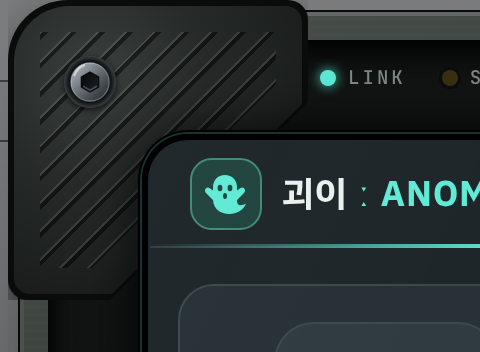
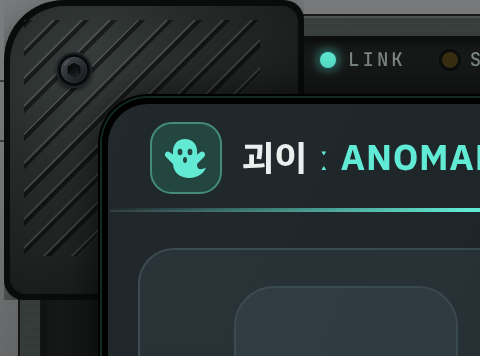
외부 프레임: 전술 치수를 확정 시안으로 (베젤 44·범퍼 +8·나사 18px·손잡이 홈 12/170·LED 13·유리 홈 40) + 사진 갱신
Claude-Session: https://claude.ai/code/session_01Jodrze8Jhrnp8pauH4bqbV

diff --git a/src/ui/style.css b/src/ui/style.css
@@ -88,7 +88,7 @@ button:focus-visible, a:focus-visible, input:focus-visible, textarea:focus-visib
    폰(760px 이하)·필드 전체화면·좁은 창에서는 app.ts 가 .gx-frame 자체를 안 넣는다 (data-frame="none") */
 .gx[data-frame="tablet"] { padding: 4px; }
 /* 전술은 모서리 범퍼 바닥이 본체 밖 6px 까지 나가므로 그만큼 여백을 더 둔다 (1000px 높이에서 범퍼가 잘리지 않게; ui/frame.ts PAD 와 같은 값) */
-.gx[data-frame="tactical"] { padding: 6px; }
+.gx[data-frame="tactical"] { padding: 8px; }
 .gx-frame { position: relative; flex: none; display: flex; align-items: center; justify-content: center; box-sizing: border-box; padding: var(--bz); width: min(100%, calc(1280px + 2 * var(--bz))); height: min(100%, calc(950px + 2 * var(--bz))); }
 .gx-frame.pre { width: min(100%, calc(1024px + 2 * var(--bz))); }
 /* 창의 1px 테두리는 틀 안에서는 지운다 (시안은 테두리 없이 검은 3px 띠뿐 — 남겨 두면 띠와 창 사이에 회색 선이 생긴다). 투명으로 두면 바탕이 테두리 자리까지 칠해지고 폭(border-box)은 그대로 */
@@ -112,42 +112,42 @@ button:focus-visible, a:focus-visible, input:focus-visible, textarea:focus-visib
 .gxf-spk { left: 300px; bottom: 2px; width: 110px; height: 3px; background: repeating-linear-gradient(90deg, rgba(0,0,0,.9) 0 3px, transparent 3px 7px); opacity: .7; }
 .gxf-spk.r { left: auto; right: 300px; }
 /* 전술 태블릿: 빛은 왼쪽 위. 본체 → 결 → 안쪽 단차(움푹) → 모서리 고무 범퍼 4벌(바닥·몸·성형 홈) → 볼트 4개 → 좌우 손잡이 홈 → 상태 LED·가운데 손잡이 홈 → 파인 유리(민트 선) → 창 → 반사 → 스트랩 고리 */
-.gx-frame[data-kind="tactical"] { --bz: 64px; border-radius: 26px; background: linear-gradient(155deg, #4a514d 0%, #323834 22%, #22262a 55%, #1a1e1d 80%, #2a2f2c 100%); box-shadow: 0 90px 140px -50px rgba(0,0,0,.95), 0 30px 40px -24px rgba(0,0,0,.9), 0 0 0 1px #0a0c0b, inset 0 2px 0 rgba(255,255,255,.16), inset 2px 0 0 rgba(255,255,255,.06), inset 0 -3px 0 rgba(0,0,0,.75), inset -2px 0 0 rgba(0,0,0,.5); }
+.gx-frame[data-kind="tactical"] { --bz: 44px; border-radius: 26px; background: linear-gradient(160deg, #3b413e 0%, #262b29 35%, #1b1f1e 70%, #272c2a 100%); box-shadow: 0 70px 120px -40px rgba(0,0,0,.9), 0 0 0 1px rgba(0,0,0,.8), inset 0 1px 0 rgba(255,255,255,.1), inset 0 -2px 0 rgba(0,0,0,.6); }
 .gx-frame[data-kind="tactical"] > .gx-panel { box-shadow: 0 0 0 3px #000; }
 .gx-frame[data-kind="tactical"] > .gxf-glare { background: linear-gradient(115deg, rgba(255,255,255,.035) 0%, rgba(255,255,255,0) 26%); }
 .gxf-tex { inset: 0; border-radius: 26px; background: repeating-linear-gradient(0deg, rgba(255,255,255,.012) 0 1px, transparent 1px 4px); }
-.gxf-recess { inset: 14px; border-radius: 18px; background: linear-gradient(180deg, #121514 0%, #0c0f0e 100%); box-shadow: inset 0 8px 14px rgba(0,0,0,.9), inset 0 -2px 0 rgba(255,255,255,.05), inset 3px 0 6px rgba(0,0,0,.6), 0 1px 0 rgba(255,255,255,.06); }
+.gxf-recess { inset: 10px; border-radius: 18px; background: linear-gradient(180deg, #171a19 0%, #0f1211 100%); box-shadow: inset 0 2px 6px rgba(0,0,0,.8), inset 0 0 0 1px rgba(255,255,255,.04); }
 /* 범퍼: 바닥(어두운 테두리, -6px) → 몸(둥근 음영, -3px) → 성형 홈(능선+골 짝, 10px) */
 .gxf-bump.base { width: 150px; height: 150px; background: #0a0c0b; filter: drop-shadow(0 10px 10px rgba(0,0,0,.6)); }
 .gxf-bump.body { width: 144px; height: 144px; }
 .gxf-bump.ridge { width: 118px; height: 118px; }
-.gxf-bump.tl.base { left: -6px; top: -6px; border-radius: 30px 10px 10px 10px; clip-path: polygon(0 0, 100% 0, 100% 34%, 34% 100%, 0 100%); }
-.gxf-bump.tl.body { left: -3px; top: -3px; border-radius: 28px 8px 8px 8px; background: radial-gradient(90% 90% at 28% 24%, #3a403d 0%, #262b29 42%, #161918 100%); clip-path: polygon(0 0, 100% 0, 100% 34%, 34% 100%, 0 100%); }
-.gxf-bump.tl.ridge { left: 10px; top: 10px; background: repeating-linear-gradient(135deg, rgba(255,255,255,.11) 0 1px, rgba(0,0,0,.5) 1px 3px, transparent 3px 10px); clip-path: polygon(0 0, 100% 0, 100% 22%, 22% 100%, 0 100%); }
-.gxf-bump.tr.base { right: -6px; top: -6px; border-radius: 10px 30px 10px 10px; clip-path: polygon(0 0, 100% 0, 100% 100%, 66% 100%, 0 34%); }
-.gxf-bump.tr.body { right: -3px; top: -3px; border-radius: 8px 28px 8px 8px; background: radial-gradient(90% 90% at 60% 24%, #343937 0%, #222625 42%, #141716 100%); clip-path: polygon(0 0, 100% 0, 100% 100%, 66% 100%, 0 34%); }
-.gxf-bump.tr.ridge { right: 10px; top: 10px; background: repeating-linear-gradient(45deg, rgba(255,255,255,.1) 0 1px, rgba(0,0,0,.5) 1px 3px, transparent 3px 10px); clip-path: polygon(0 0, 100% 0, 100% 100%, 78% 100%, 0 22%); }
-.gxf-bump.bl.base { left: -6px; bottom: -6px; border-radius: 10px 10px 10px 30px; clip-path: polygon(0 0, 34% 0, 100% 66%, 100% 100%, 0 100%); }
-.gxf-bump.bl.body { left: -3px; bottom: -3px; border-radius: 8px 8px 8px 28px; background: radial-gradient(90% 90% at 28% 60%, #2e3331 0%, #1f2322 42%, #121514 100%); clip-path: polygon(0 0, 34% 0, 100% 66%, 100% 100%, 0 100%); }
-.gxf-bump.bl.ridge { left: 10px; bottom: 10px; background: repeating-linear-gradient(45deg, rgba(255,255,255,.09) 0 1px, rgba(0,0,0,.5) 1px 3px, transparent 3px 10px); clip-path: polygon(0 0, 22% 0, 100% 78%, 100% 100%, 0 100%); }
-.gxf-bump.br.base { right: -6px; bottom: -6px; border-radius: 10px 10px 30px 10px; clip-path: polygon(66% 0, 100% 0, 100% 100%, 0 100%, 0 66%); }
-.gxf-bump.br.body { right: -3px; bottom: -3px; border-radius: 8px 8px 28px 8px; background: radial-gradient(90% 90% at 60% 60%, #2a2f2d 0%, #1c201f 42%, #101312 100%); clip-path: polygon(66% 0, 100% 0, 100% 100%, 0 100%, 0 66%); }
-.gxf-bump.br.ridge { right: 10px; bottom: 10px; background: repeating-linear-gradient(135deg, rgba(255,255,255,.08) 0 1px, rgba(0,0,0,.5) 1px 3px, transparent 3px 10px); clip-path: polygon(78% 0, 100% 0, 100% 100%, 0 100%, 0 78%); }
-.gx-frame > .gxf-screw { filter: drop-shadow(0 1.5px 1.5px rgba(0,0,0,.7)); }
+.gxf-bump.tl.base { left: -8px; top: -8px; border-radius: 30px 10px 10px 10px; clip-path: polygon(0 0, 100% 0, 100% 34%, 34% 100%, 0 100%); }
+.gxf-bump.tl.body { left: -5px; top: -5px; border-radius: 28px 8px 8px 8px; background: radial-gradient(90% 90% at 28% 24%, #3a403d 0%, #262b29 42%, #161918 100%); clip-path: polygon(0 0, 100% 0, 100% 34%, 34% 100%, 0 100%); }
+.gxf-bump.tl.ridge { left: 2px; top: 2px; background: repeating-linear-gradient(135deg, rgba(255,255,255,.11) 0 1px, rgba(0,0,0,.5) 1px 3px, transparent 3px 10px); clip-path: polygon(0 0, 100% 0, 100% 22%, 22% 100%, 0 100%); }
+.gxf-bump.tr.base { right: -8px; top: -8px; border-radius: 10px 30px 10px 10px; clip-path: polygon(0 0, 100% 0, 100% 100%, 66% 100%, 0 34%); }
+.gxf-bump.tr.body { right: -5px; top: -5px; border-radius: 8px 28px 8px 8px; background: radial-gradient(90% 90% at 60% 24%, #343937 0%, #222625 42%, #141716 100%); clip-path: polygon(0 0, 100% 0, 100% 100%, 66% 100%, 0 34%); }
+.gxf-bump.tr.ridge { right: 2px; top: 2px; background: repeating-linear-gradient(45deg, rgba(255,255,255,.1) 0 1px, rgba(0,0,0,.5) 1px 3px, transparent 3px 10px); clip-path: polygon(0 0, 100% 0, 100% 100%, 78% 100%, 0 22%); }
+.gxf-bump.bl.base { left: -8px; bottom: -8px; border-radius: 10px 10px 10px 30px; clip-path: polygon(0 0, 34% 0, 100% 66%, 100% 100%, 0 100%); }
+.gxf-bump.bl.body { left: -5px; bottom: -5px; border-radius: 8px 8px 8px 28px; background: radial-gradient(90% 90% at 28% 60%, #2e3331 0%, #1f2322 42%, #121514 100%); clip-path: polygon(0 0, 34% 0, 100% 66%, 100% 100%, 0 100%); }
+.gxf-bump.bl.ridge { left: 2px; bottom: 2px; background: repeating-linear-gradient(45deg, rgba(255,255,255,.09) 0 1px, rgba(0,0,0,.5) 1px 3px, transparent 3px 10px); clip-path: polygon(0 0, 22% 0, 100% 78%, 100% 100%, 0 100%); }
+.gxf-bump.br.base { right: -8px; bottom: -8px; border-radius: 10px 10px 30px 10px; clip-path: polygon(66% 0, 100% 0, 100% 100%, 0 100%, 0 66%); }
+.gxf-bump.br.body { right: -5px; bottom: -5px; border-radius: 8px 8px 28px 8px; background: radial-gradient(90% 90% at 60% 60%, #2a2f2d 0%, #1c201f 42%, #101312 100%); clip-path: polygon(66% 0, 100% 0, 100% 100%, 0 100%, 0 66%); }
+.gxf-bump.br.ridge { right: 2px; bottom: 2px; background: repeating-linear-gradient(135deg, rgba(255,255,255,.08) 0 1px, rgba(0,0,0,.5) 1px 3px, transparent 3px 10px); clip-path: polygon(78% 0, 100% 0, 100% 100%, 0 100%, 0 78%); }
+.gx-frame > .gxf-screw { filter: drop-shadow(0 1px 1px rgba(0,0,0,.6)); }
 /* 좌우 손잡이: 가로 홈, 능선이 빛을 받음 */
-.gxf-grip { left: 22px; top: 190px; bottom: 190px; width: 22px; border-radius: 8px; background: repeating-linear-gradient(0deg, #0a0c0b 0 5px, #2a2f2d 5px 8px, #1b1f1e 8px 14px); box-shadow: inset 0 0 0 1px rgba(0,0,0,.9), inset 1px 1px 0 rgba(255,255,255,.1), 3px 0 6px rgba(0,0,0,.55); }
-.gxf-grip.r { left: auto; right: 22px; box-shadow: inset 0 0 0 1px rgba(0,0,0,.9), inset 1px 1px 0 rgba(255,255,255,.1), -3px 0 6px rgba(0,0,0,.55); }
+.gxf-grip { left: 12px; top: 170px; bottom: 170px; width: 20px; border-radius: 8px; background: repeating-linear-gradient(0deg, #0c0e0d 0 6px, #232726 6px 14px); box-shadow: inset 0 0 0 1px rgba(0,0,0,.8), inset 2px 0 0 rgba(255,255,255,.04); }
+.gxf-grip.r { left: auto; right: 12px; box-shadow: inset 0 0 0 1px rgba(0,0,0,.8), inset -2px 0 0 rgba(255,255,255,.04); }
 /* 위 베젤: 상태 LED (장식: LINK 켜짐·STBY 꺼짐·REC 켜짐) · 가운데 손잡이 홈. 글자는 LINK·STBY·REC 뿐 */
-.gxf-leds { left: 150px; top: 22px; height: 22px; display: flex; align-items: center; gap: 18px; font-family: 'JetBrains Mono', ui-monospace, monospace; font-size: 9.5px; font-style: normal; letter-spacing: .16em; color: #7f8a85; }
+.gxf-leds { left: 150px; top: 13px; height: 18px; display: flex; align-items: center; gap: 18px; font-family: 'JetBrains Mono', ui-monospace, monospace; font-size: 9.5px; font-style: normal; letter-spacing: .16em; color: #7f8a85; }
 .gxf-leds > span { display: inline-flex; align-items: center; gap: 6px; }
 .gxf-leds b { display: inline-block; width: 8px; height: 8px; border-radius: 50%; background: #3a2f12; box-shadow: 0 0 0 1.5px #0b0d0e; }
 .gxf-leds b.on-link { background: #5EEAD4; box-shadow: 0 0 6px #5EEAD4, 0 0 0 1.5px #0b0d0e; }
 .gxf-leds b.on-rec { background: #FF7A6B; box-shadow: 0 0 6px #FF7A6B, 0 0 0 1.5px #0b0d0e; }
-.gxf-handle { left: 50%; top: 18px; transform: translateX(-50%); width: 220px; height: 30px; border-radius: 15px; background: linear-gradient(180deg, #070908, #141716); box-shadow: inset 0 3px 6px rgba(0,0,0,.95), inset 0 -1px 0 rgba(255,255,255,.07), 0 1px 0 rgba(255,255,255,.05); }
+.gxf-handle { left: 50%; top: 8px; transform: translateX(-50%); width: 220px; height: 28px; border-radius: 14px; background: linear-gradient(180deg, #0b0d0c, #151817); box-shadow: inset 0 2px 4px rgba(0,0,0,.9), inset 0 -1px 0 rgba(255,255,255,.05); }
 /* 파인 유리 + 민트 가는 선 (창보다 4px 넓게) */
-.gxf-pit { inset: calc(var(--bz) - 4px); border-radius: 24px; background: #000; box-shadow: inset 0 0 0 1px rgba(94,234,212,.22), inset 0 6px 10px rgba(0,0,0,.9), 0 0 0 1px #000, 0 1px 0 rgba(255,255,255,.06), 0 0 28px rgba(0,0,0,.85); }
+.gxf-pit { inset: calc(var(--bz) - 4px); border-radius: 24px; background: #000; box-shadow: inset 0 0 0 1px rgba(94,234,212,.18), 0 0 0 1px #000, 0 0 24px rgba(0,0,0,.8); }
 /* 아래 베젤: 스트랩 고리만 */
-.gxf-strap { left: 50%; bottom: 20px; transform: translateX(-50%); width: 54px; height: 10px; border-radius: 5px; background: #0a0c0b; box-shadow: inset 0 1px 3px rgba(0,0,0,.9), 0 1px 0 rgba(255,255,255,.05); }
+.gxf-strap { left: 50%; bottom: 14px; transform: translateX(-50%); width: 54px; height: 10px; border-radius: 5px; background: #0a0c0b; box-shadow: inset 0 1px 3px rgba(0,0,0,.9), 0 1px 0 rgba(255,255,255,.05); }
 /* 스크롤바도 창 배색으로 (브라우저 기본 회색이 테마와 안 맞았다) */
 /* 스크롤바 (v0.16.21, 사용자 요청: 너무 눈에 띈다): 평소엔 아주 흐리게, 그 칸에 마우스를 올렸을 때만 보이게 */
 .gx, .gx * { scrollbar-width: thin; scrollbar-color: color-mix(in srgb, var(--sub) 12%, transparent) transparent; }

diff --git a/src/ui/frame.ts b/src/ui/frame.ts
@@ -6,12 +6,12 @@ import type { Prefs } from '../core/settings';
 
 export type FrameKind = NonNullable<Prefs['frame']>;
 
-/** 틀이 창 바깥으로 차지하는 가로 폭(양쪽 합). 일반: 베젤 26×2 + 오른쪽 전원·볼륨 버튼 4. 전술: 베젤 64×2 + 모서리 범퍼 6×2 */
-const EXTRA_W: Record<Exclude<FrameKind, 'none'>, number> = { tablet: 26 * 2 + 4, tactical: 64 * 2 + 6 * 2 };
+/** 틀이 창 바깥으로 차지하는 가로 폭(양쪽 합). 일반: 베젤 26×2 + 오른쪽 전원·볼륨 버튼 4. 전술: 베젤 44×2 + 모서리 범퍼 8×2 */
+const EXTRA_W: Record<Exclude<FrameKind, 'none'>, number> = { tablet: 26 * 2 + 4, tactical: 44 * 2 + 8 * 2 };
 /** 틀이 창 위아래로 차지하는 높이(합) */
-const EXTRA_H: Record<Exclude<FrameKind, 'none'>, number> = { tablet: 26 * 2, tactical: 64 * 2 };
-/** 틀을 켰을 때 .gx 바깥 여백 (style.css 와 같은 값). 전술은 모서리 범퍼 바닥이 본체 밖 6px 까지 나가서 그만큼 더 */
-const PAD: Record<Exclude<FrameKind, 'none'>, number> = { tablet: 4, tactical: 6 };
+const EXTRA_H: Record<Exclude<FrameKind, 'none'>, number> = { tablet: 26 * 2, tactical: 44 * 2 };
+/** 틀을 켰을 때 .gx 바깥 여백 (style.css 와 같은 값). 전술은 모서리 범퍼 바닥이 본체 밖 8px 까지 나가서 그만큼 더 */
+const PAD: Record<Exclude<FrameKind, 'none'>, number> = { tablet: 4, tactical: 8 };
 /** 창 최대 폭 (style.css .gx-panel · .gx-panel.pre 와 같은 값) */
 const PANEL_W = { nav: 1280, pre: 1024 };
 /** 전술 틀일 때 창이 이보다 낮아지면 틀을 숨긴다 */
@@ -42,14 +42,14 @@ function screw(n: number, pos: string): string {
   const s = `gxf-s${n}`;
   const m = `gxf-m${n}`;
   const k = `gxf-k${n}`;
-  return `<svg class="gxf-screw" aria-hidden="true" width="26" height="26" viewBox="0 0 26 26" style="${pos}"><defs><radialGradient id="${s}" cx=".5" cy=".5" r=".5"><stop offset=".72" stop-color="#050607"/><stop offset=".86" stop-color="#1b1f22"/><stop offset="1" stop-color="#3a4044"/></radialGradient><linearGradient id="${m}" x1="0" y1="0" x2="1" y2="1"><stop offset="0" stop-color="#b9c1c7"/><stop offset=".35" stop-color="#7d868d"/><stop offset=".7" stop-color="#454c52"/><stop offset="1" stop-color="#22272b"/></linearGradient><linearGradient id="${k}" x1="0" y1="0" x2="1" y2="1"><stop offset="0" stop-color="#040506"/><stop offset="1" stop-color="#1f2428"/></linearGradient></defs><circle cx="13" cy="13" r="13" fill="url(#${s}) #1b1f22"/><circle cx="13" cy="13" r="9.6" fill="url(#${m}) #7d868d"/><circle cx="13" cy="13" r="9.6" fill="none" stroke="rgba(255,255,255,.35)" stroke-width=".6"/><path d="M5.2 9.6A8.6 8.6 0 0 1 10 4.6" stroke="rgba(255,255,255,.55)" stroke-width="1.1" fill="none" stroke-linecap="round"/><polygon points="13,8 17.3,10.5 17.3,15.5 13,18 8.7,15.5 8.7,10.5" fill="url(#${k}) #0e1113"/><polygon points="13,8 17.3,10.5 17.3,15.5 13,18 8.7,15.5 8.7,10.5" fill="none" stroke="rgba(0,0,0,.8)" stroke-width=".7"/><path d="M9.6 15.1l3.4 2 3.4-2" stroke="rgba(255,255,255,.22)" stroke-width=".8" fill="none"/></svg>`;
+  return `<svg class="gxf-screw" aria-hidden="true" width="18" height="18" viewBox="0 0 26 26" style="${pos}"><defs><radialGradient id="${s}" cx=".5" cy=".5" r=".5"><stop offset=".78" stop-color="#040506"/><stop offset=".9" stop-color="#15181b"/><stop offset="1" stop-color="#2a2f33"/></radialGradient><linearGradient id="${m}" x1="0" y1="0" x2="1" y2="1"><stop offset="0" stop-color="#454b50"/><stop offset=".5" stop-color="#2b3035"/><stop offset="1" stop-color="#15181b"/></linearGradient><linearGradient id="${k}" x1="0" y1="0" x2="1" y2="1"><stop offset="0" stop-color="#050607"/><stop offset="1" stop-color="#1a1e22"/></linearGradient></defs><circle cx="13" cy="13" r="13" fill="url(#${s}) #15181b"/><circle cx="13" cy="13" r="9.4" fill="url(#${m}) #2b3035"/><circle cx="13" cy="13" r="9.4" fill="none" stroke="rgba(255,255,255,.1)" stroke-width=".6"/><path d="M6.4 9.2A7.8 7.8 0 0 1 9.4 6.1" stroke="rgba(255,255,255,.18)" stroke-width=".9" fill="none" stroke-linecap="round"/><polygon points="13,8.2 17.2,10.6 17.2,15.4 13,17.8 8.8,15.4 8.8,10.6" fill="url(#${k}) #0e1113"/><polygon points="13,8.2 17.2,10.6 17.2,15.4 13,17.8 8.8,15.4 8.8,10.6" fill="none" stroke="rgba(0,0,0,.85)" stroke-width=".7"/><path d="M9.4 15.2l3.6 2.1 3.6-2.1" stroke="rgba(255,255,255,.12)" stroke-width=".7" fill="none"/></svg>`;
 }
 
 /** 일반 태블릿 장식 (창 앞에 놓는 것). 유리 반사만 창 위 */
 const TABLET_BEFORE = '<i class="gxf-hi"></i><i class="gxf-glass"></i><i class="gxf-cam"><b></b><b></b></i><i class="gxf-pwr"></i><i class="gxf-vol"></i><i class="gxf-spk"></i><i class="gxf-spk r"></i>';
 
 /** 전술 태블릿 장식. 모서리 범퍼(바닥·몸·성형 홈) 4벌, 볼트 4개, 좌우 손잡이 홈, 상태 LED, 가운데 손잡이 홈, 파인 유리, 스트랩 고리 */
-const TACTICAL_BEFORE = `<i class="gxf-tex"></i><i class="gxf-recess"></i>${['tl', 'tr', 'bl', 'br'].map((c) => `<i class="gxf-bump ${c} base"></i><i class="gxf-bump ${c} body"></i><i class="gxf-bump ${c} ridge"></i>`).join('')}${screw(1, 'left:22px;top:22px')}${screw(2, 'right:22px;top:22px')}${screw(3, 'left:22px;bottom:22px')}${screw(4, 'right:22px;bottom:22px')}<i class="gxf-grip"></i><i class="gxf-grip r"></i><i class="gxf-leds"><span><b class="on-link"></b>LINK</span><span><b></b>STBY</span><span><b class="on-rec"></b>REC</span></i><i class="gxf-handle"></i><i class="gxf-pit"></i><i class="gxf-strap"></i>`;
+const TACTICAL_BEFORE = `<i class="gxf-tex"></i><i class="gxf-recess"></i>${['tl', 'tr', 'bl', 'br'].map((c) => `<i class="gxf-bump ${c} base"></i><i class="gxf-bump ${c} body"></i><i class="gxf-bump ${c} ridge"></i>`).join('')}${screw(1, 'left:18px;top:18px')}${screw(2, 'right:18px;top:18px')}${screw(3, 'left:18px;bottom:18px')}${screw(4, 'right:18px;bottom:18px')}<i class="gxf-grip"></i><i class="gxf-grip r"></i><i class="gxf-leds"><span><b class="on-link"></b>LINK</span><span><b></b>STBY</span><span><b class="on-rec"></b>REC</span></i><i class="gxf-handle"></i><i class="gxf-pit"></i><i class="gxf-strap"></i>`;
 
 /** 창(.gx-panel HTML)을 기기 틀로 감싼다. pre = 시작 전 창(1024px) */
 export function frameHtml(kind: Exclude<FrameKind, 'none'>, pre: boolean, panel: string): string {

diff --git a/docs/인계서.md b/docs/인계서.md
@@ -1,7 +1,7 @@
 # 인계서 · 새 Claude 계정으로 이어받기 (2026-10-24)
 
 > **2026-10-29 인계 (브랜치 `claude/qc-release-2026-10-28`, 미릴리스 · 이 절이 가장 최신):**
-> - **상황판 창 외부 프레임 (2026-10-29 사용자 결정, 브랜치 `wf/frame`)**: 설정 › 화면 「외부 프레임」 없음/일반 태블릿/전술 태블릿, **기본값 일반 태블릿**, 「이 기기」 범위(`Prefs.frame`, 일반은 저장 안 함). PC 전용 — 폰(760px 이하)·필드 전체화면(`document.fullscreenElement`)에서는 안 그리고, 창 최대 폭(1280·시작 전 1024) + 틀 두께(일반 56·전술 140) + 여백(일반 8·전술 12, 범퍼 돌출분)이 뷰포트보다 크면(또는 전술인데 창 높이 600 미만) 창은 그대로 두고 틀만 숨기며 설정 줄에 「지금 창 폭이 좁아 프레임을 숨겼어요」(`.gx` `data-frame`·`data-frame-hidden`). 창(.gx-panel) 크기 규칙은 그대로, 틀은 바깥으로만(`src/ui/frame.ts` + `style.css` 「외부 프레임」 절, 시안 `docs/시안/상황판_프레임/Tablet.dc.html`·`Tactical.dc.html` 그대로, 구현 사진 `구현_일반.png`·`구현_전술.png`·`구현_전술_모서리.png`). 시험 `tests/qc-frame-browser.mjs <fixture>`(목록 이름 `qc-frame`). 참고: 전술 시안 HTML 은 창 둘레 64px(결정문의 44px 와 다름, HTML 자체 꼬리표도 「BEZEL 64」) — HTML 치수를 따랐다. 틀 안에서는 창의 1px 테두리를 투명으로 둔다(시안은 검은 3px 띠뿐).
+> - **상황판 창 외부 프레임 (2026-10-29 사용자 결정, 브랜치 `wf/frame`)**: 설정 › 화면 「외부 프레임」 없음/일반 태블릿/전술 태블릿, **기본값 일반 태블릿**, 「이 기기」 범위(`Prefs.frame`, 일반은 저장 안 함). PC 전용 — 폰(760px 이하)·필드 전체화면(`document.fullscreenElement`)에서는 안 그리고, 창 최대 폭(1280·시작 전 1024) + 틀 두께(일반 56·전술 104) + 여백(일반 8·전술 16, 범퍼 돌출분)이 뷰포트보다 크면(또는 전술인데 창 높이 600 미만) 창은 그대로 두고 틀만 숨기며 설정 줄에 「지금 창 폭이 좁아 프레임을 숨겼어요」(`.gx` `data-frame`·`data-frame-hidden`). 창(.gx-panel) 크기 규칙은 그대로, 틀은 바깥으로만(`src/ui/frame.ts` + `style.css` 「외부 프레임」 절, 시안 `docs/시안/상황판_프레임/Tablet.dc.html`·`Tactical.dc.html` 그대로, 구현 사진 `구현_일반.png`·`구현_전술.png`·`구현_전술_모서리.png`). 시험 `tests/qc-frame-browser.mjs <fixture>`(목록 이름 `qc-frame`). 전술 치수는 확정 시안(베젤 44·범퍼 +8·나사 18px, `docs/시안/상황판_프레임/Tactical.dc.html` 확정판)을 따른다. 틀 안에서는 창의 1px 테두리를 투명으로 둔다(시안은 검은 3px 띠뿐).
 > - **출시 전 전수 QC 끝**: 버그 74건 수정, 단위시험 678 통과·0 건너뜀, 브라우저 시험 26종 통과. 종합 `docs/qc/00_종합.md`, 영역별 `docs/qc/01~08`, 개선 제안 `docs/qc/07_개선제안.md`(가 장 = 출시 전 사용자 확인 6가지). 아카라이브 홍보글 `docs/홍보/아카라이브_홍보글.html`(순수 HTML·인라인 스타일·접기, 사진·영상 자리 비움, 미리보기 `docs/홍보/미리보기/`).
 > - **모바일 필드 조작 구현 끝**(사용자 결정 정본 `docs/모바일조작/모바일_조작_설계.md`, 구현 기록 `docs/모바일조작/구현_2026-10-29.md`, 사진 `docs/모바일조작/shots/`): 폰이면 무조건 가로 전체화면(안드로이드 전체화면+가로 고정, 아이폰은 창 덮기+90도 회전), 창 머리·메뉴·신분증·유령 버튼 숨김, 버튼 고정 8개(약·강·회피·막기·점프·고유(길게 충전)·필살·조사)+아래 가운데 자동전투·메뉴, 대사창 모드(선택·취소), 키패드 모드, 버튼 밖 터치 차단, 자동전투(대련 AI 두뇌, 스틱 만지면 잠깐 직접). **버튼 그림은 코드가 기기 픽셀로 그린다**(`src/game/action/ui/touchArt.ts`: 금속 테두리·유리 안쪽·반사광·그림자, 큰 공격 버튼 장식; 사용자 2026-10-29 「흔한 모바일 액션 게임 버튼처럼」). 아이콘만 PixelLab 시트(`game-src/art/ui/pixellab/mobile/buttons_sheet_v1.png`, 한 번 생성 25회 + 시험 10회 = 35회 사용, `spend.log`)에서 정수 배로 꺼낸다. 시험 `tests/qc-mobile-browser.mjs <fixture>`(세로·가로·아이폰 흉내).
 > - **전투 선입력 3칸**(사용자 2026-10-29 「바꿔야지」): `eileen/core.ts` `P.bufQ`(최대 3). 약·약·약·강을 빨리 눌러도 세 번째 약이 안 사라진다. 회귀 시험은 `tests/qc-combat-browser.mjs` 빠른 연타 절.
